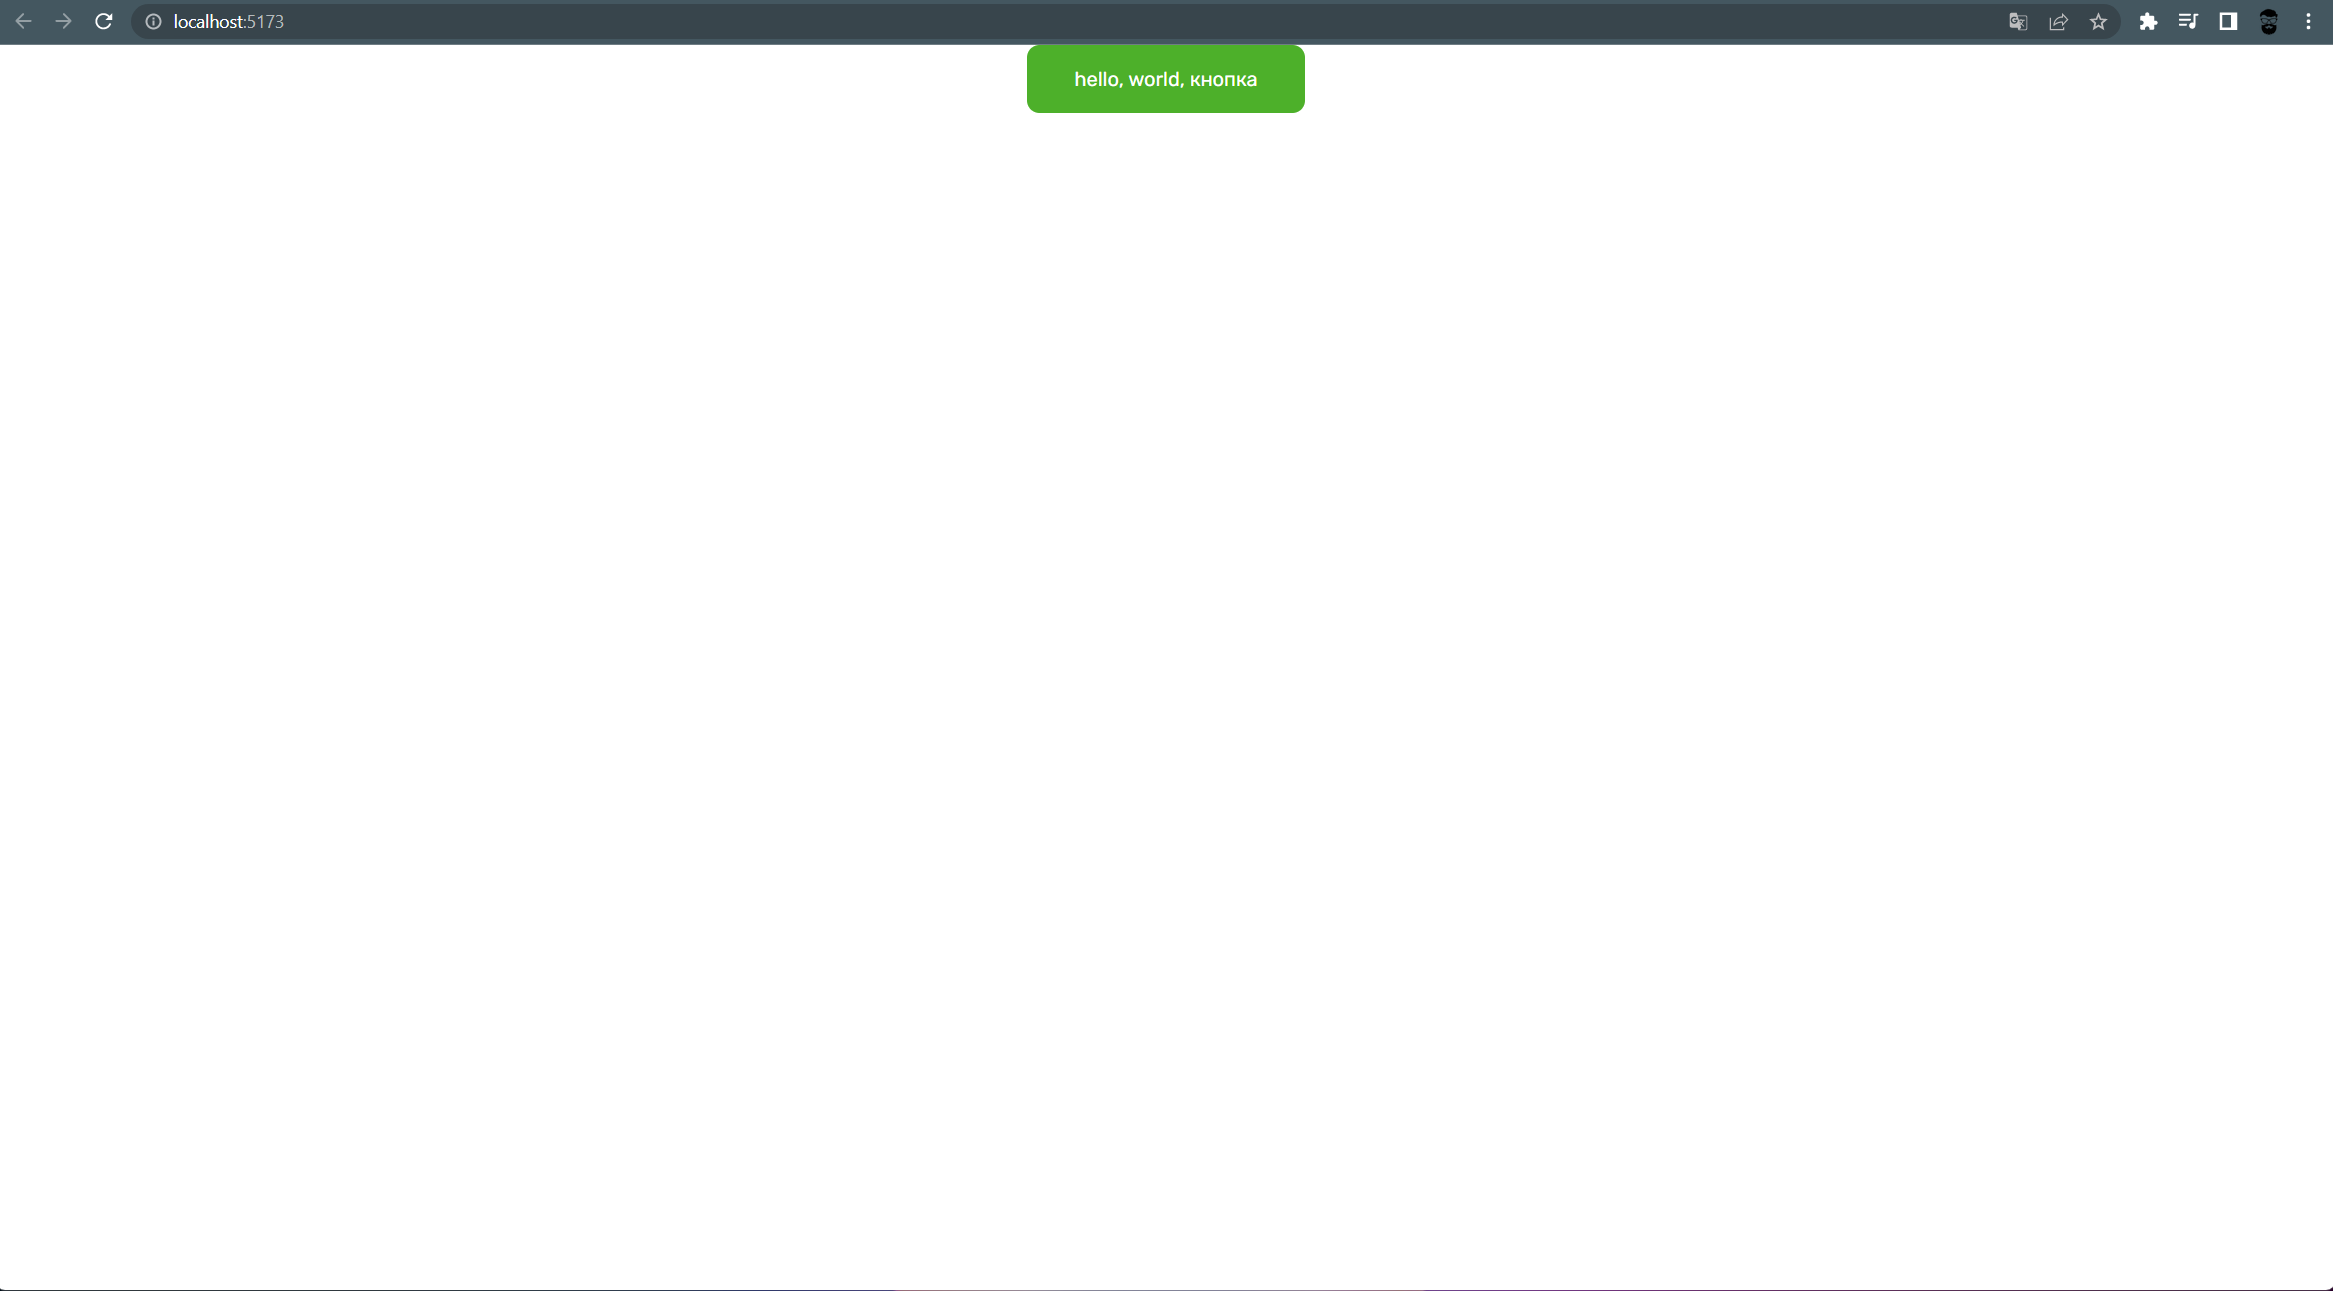
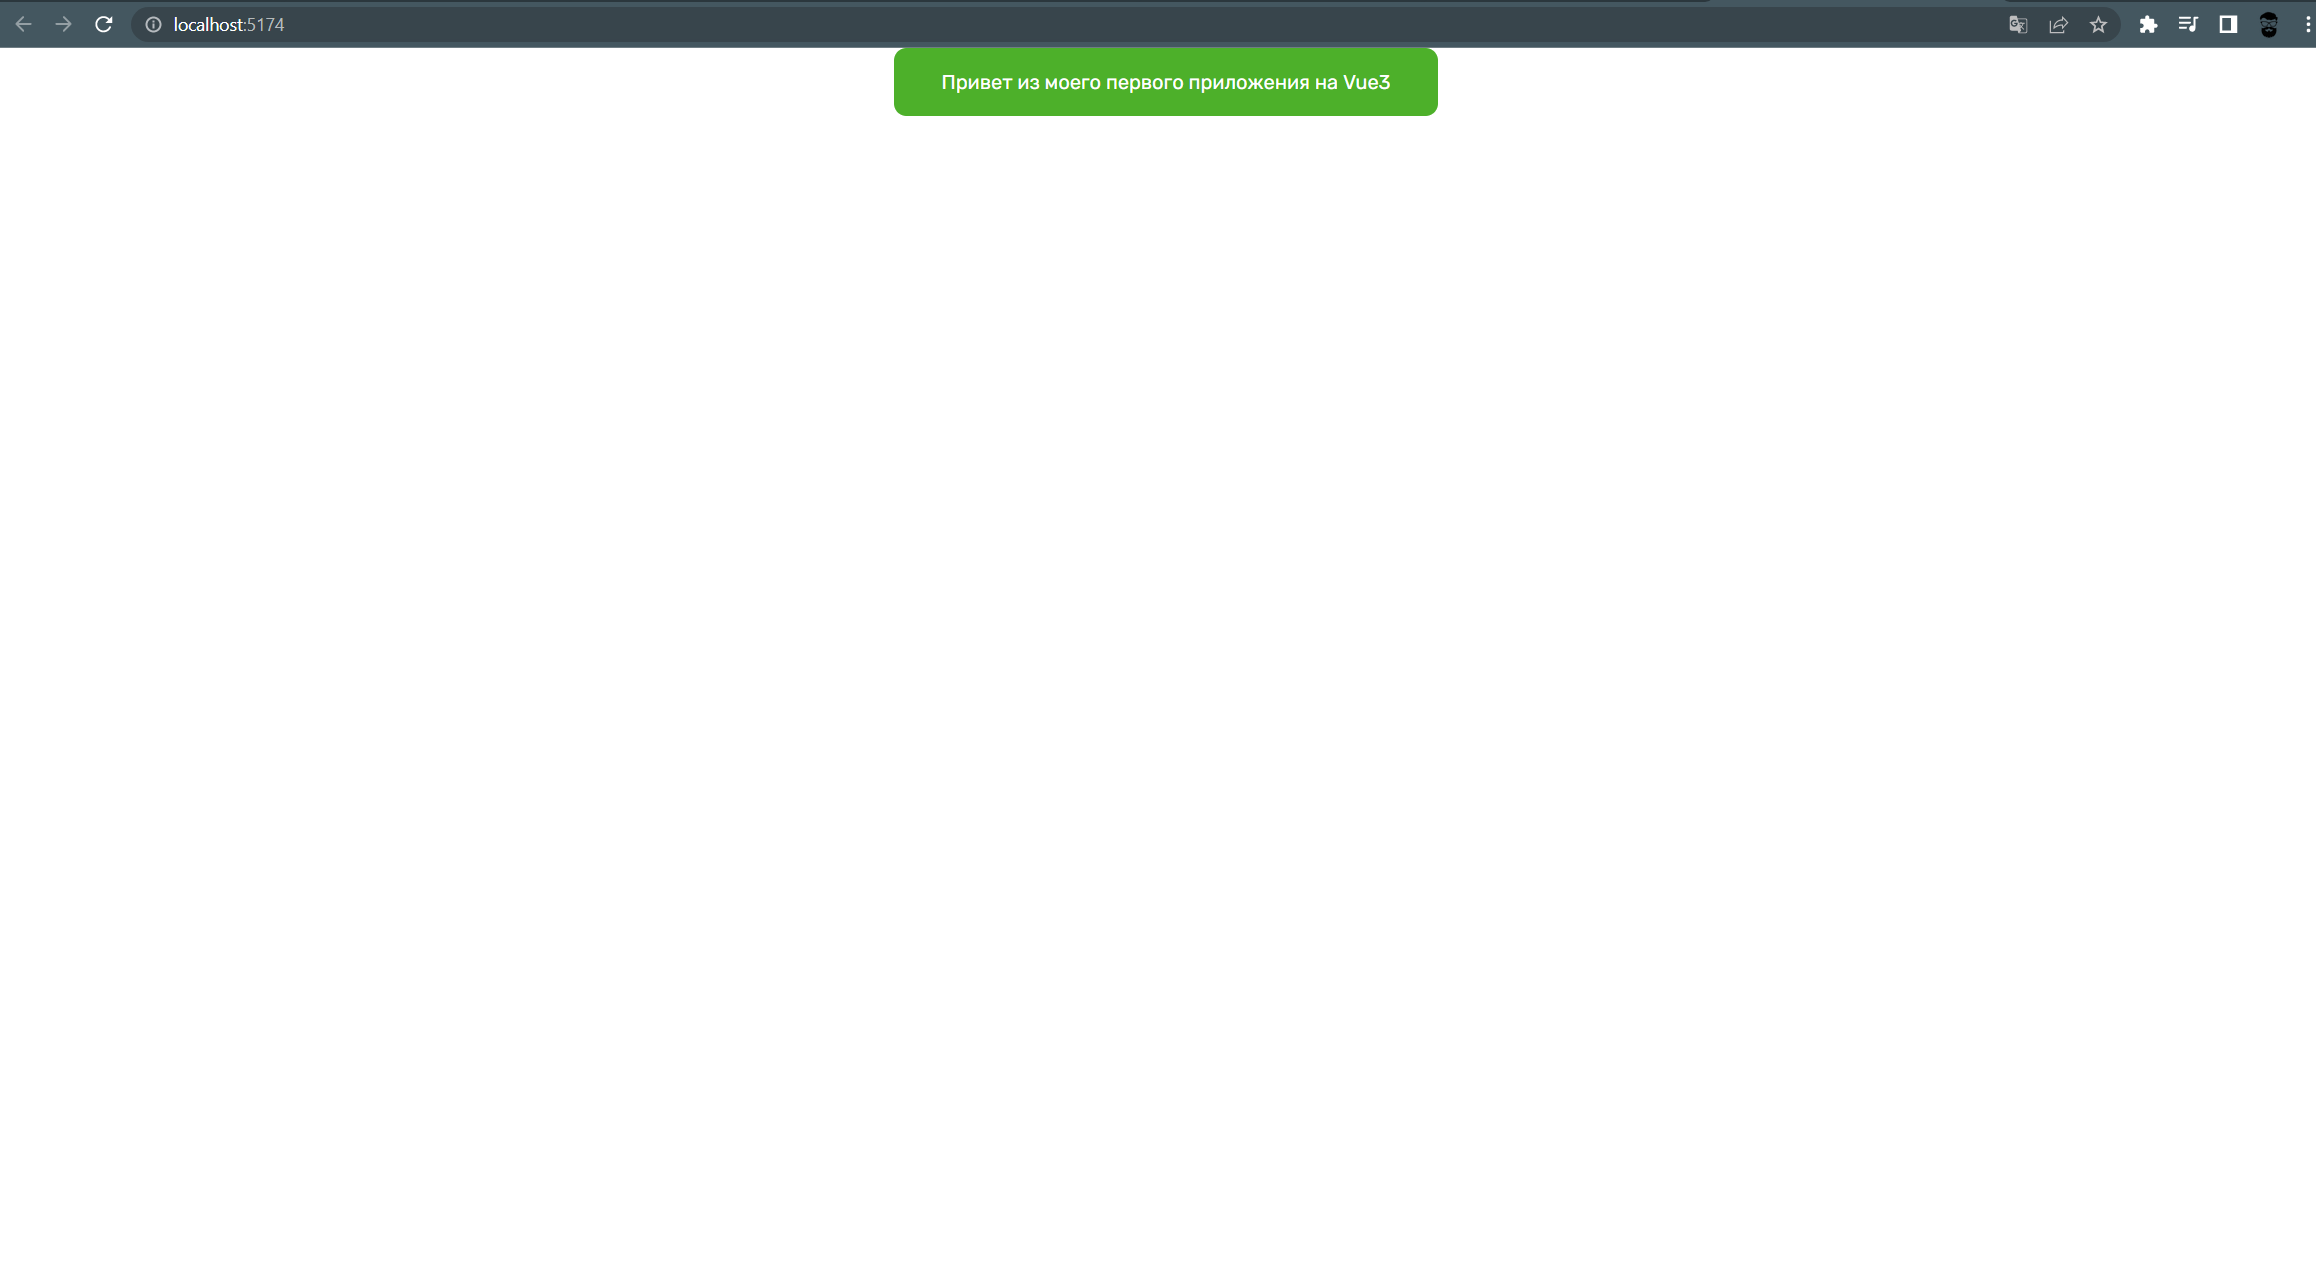
bag fix

Changed region(s): [[0.0, 0.0, 1.0, 0.0926], [0.9948, 0.9881, 1.0, 1.0]]

diff --git a/src/App.vue b/src/App.vue
@@ -1,7 +1,11 @@
 <script setup>
+import {ref} from "vue";
 
+const textOne = ref('Привет');
+const textTwo = ref('из моего');
+const textTree = ref('первого приложения на Vue3');
 </script>
 
 <template>
-  <button class="button">hello, world, кнопка</button>
+  <button class="button">{{textOne}} {{textTwo}} {{textTree}}</button>
 </template>
